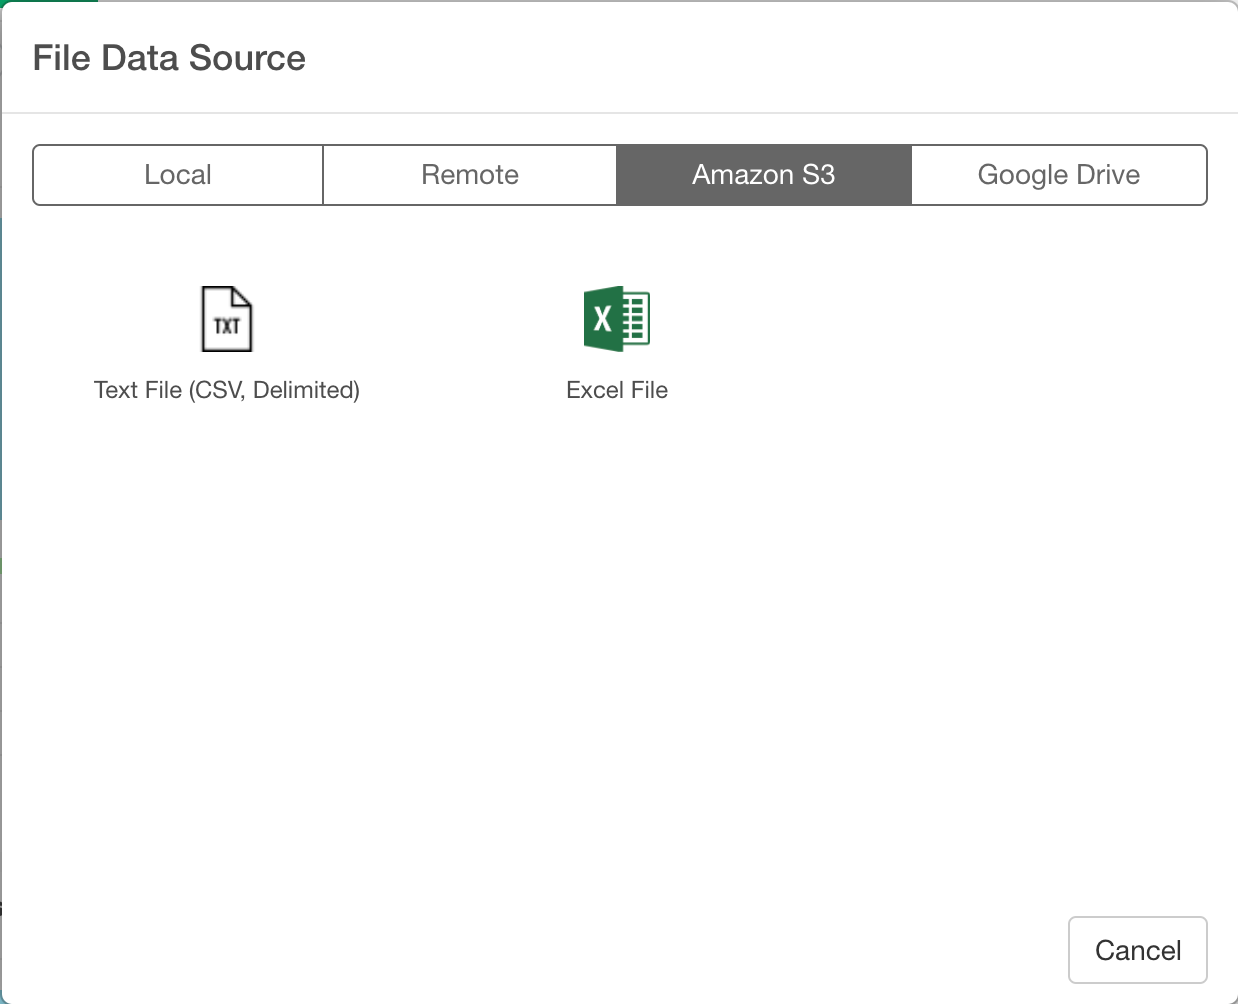
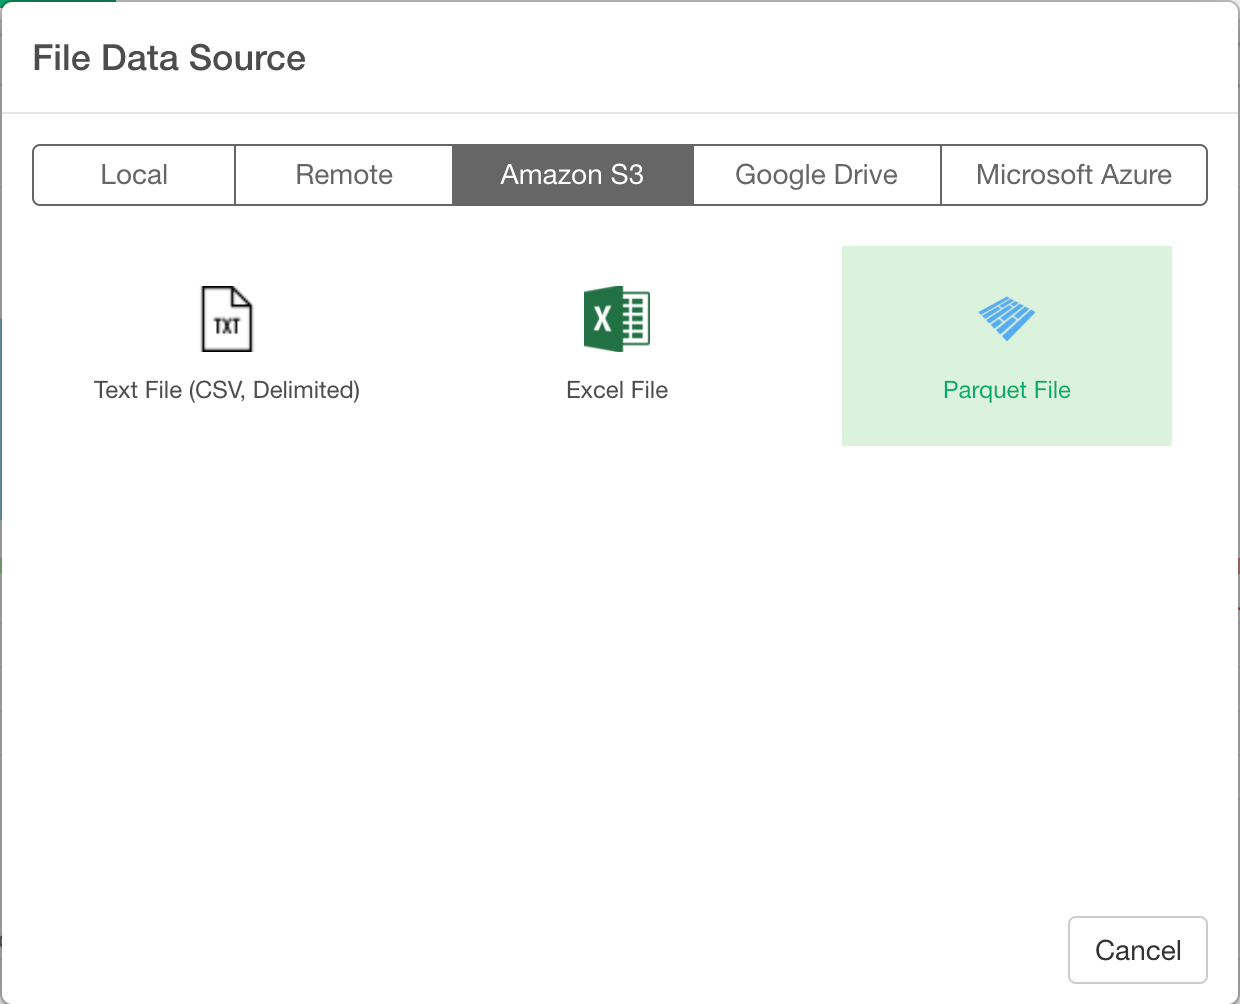
Update S3 File Data Source document with Parquet option.

diff --git a/import/s3.md b/import/s3.md
@@ -1,9 +1,10 @@
-# Import CSV / Delimited File or Excel File Data from Amazon S3
+# Import CSV / Delimited File or Excel File or Parquet File Data from Amazon S3
 
-You can import CSV / Delimited File or Excel File from Amazon S3.
+You can import CSV / Delimited File or Excel File or Parquet File from Amazon S3.
 
 # 1. Create Amazon S3 connection
-![](images/s3_create_connection1.png)
+
+When you try to import data from Amazon S3 for the first time, it shows you below Create Connection Dialog forAmazon S3.
 
 Type in AWS Region, Access Key ID, and Access Key Secret.
 ![](images/s3_create_connection2.png)
@@ -19,8 +20,8 @@ Type in AWS Region, Access Key ID, and Access Key Secret.
 
 ## 3. Input Parameters
 
-Input parameters are same Text File (CSV, delimited) import and Excel File import.
+Input parameters are same Text File (CSV, delimited) import, Excel File import, and Parquet File Import.
 
 ## 4. Preview and import
 
-Click the Preview button to see the data in CSV / Delimited or Excel File. You can limit number of rows for the preview by selecting number from pulldown list on the preview table. If it looks ok, then you can click 'Import' to import the whole CSV / Delimited or Excel data into Exploratory.
+Click the Preview button to see the data in CSV / Delimited or Excel File or Parquet File. You can limit number of rows for the preview by selecting number from pulldown list on the preview table. If it looks ok, then you can click 'Import' to import the whole CSV / Delimited or Excel or Parquet data into Exploratory.
